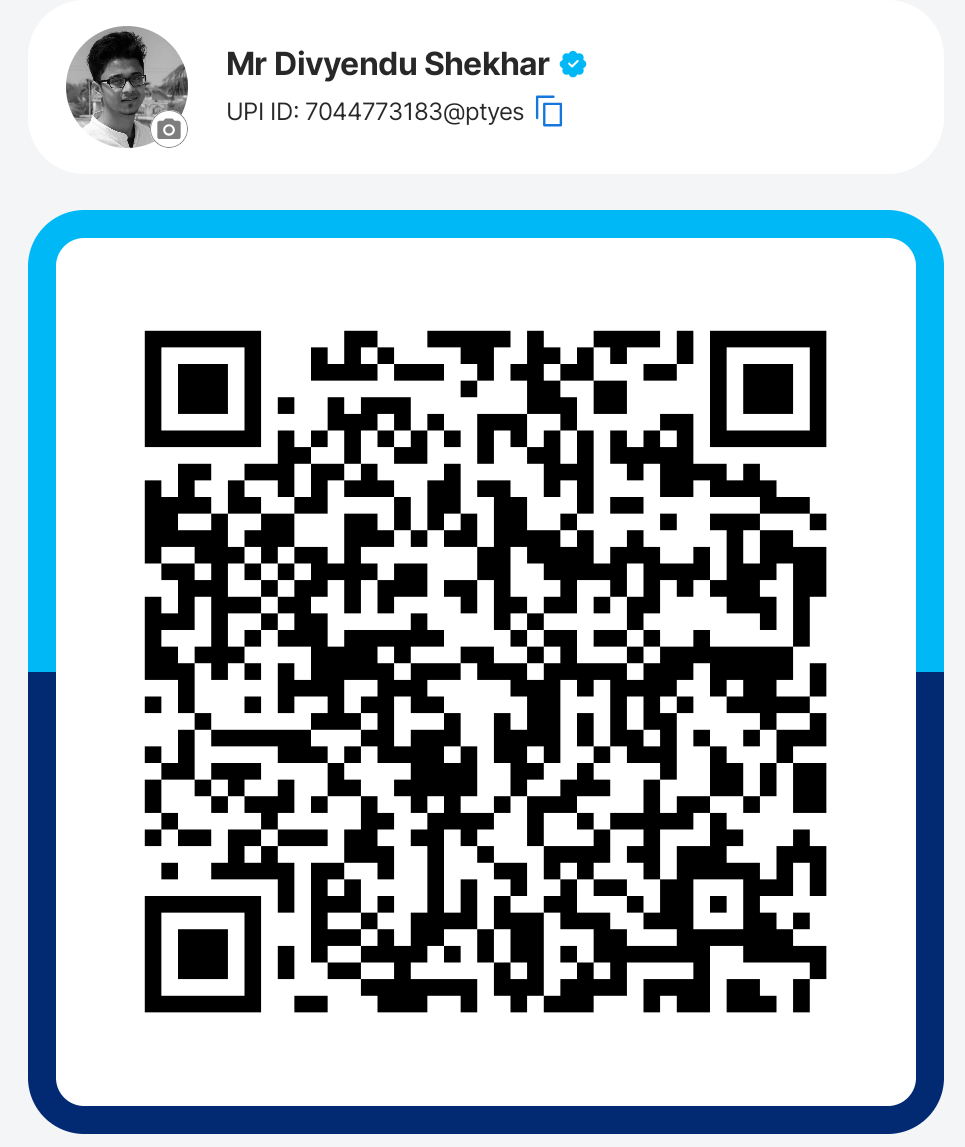
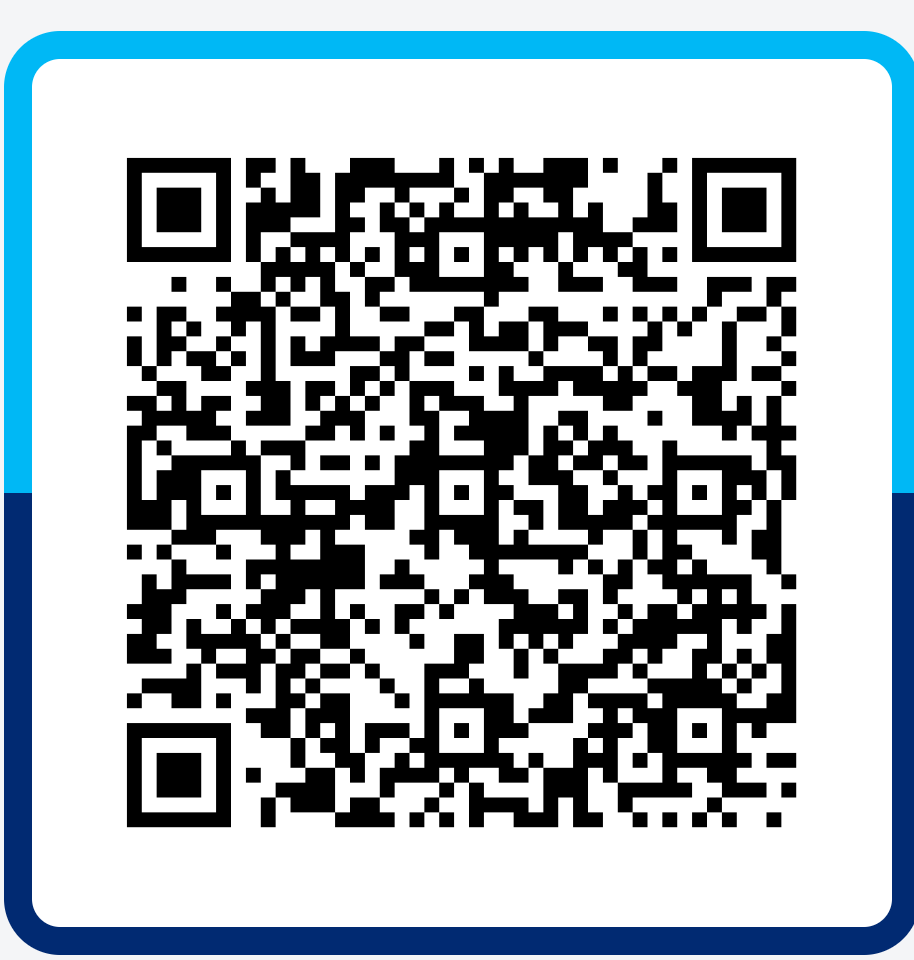
Day12: Minor UI fixes, reduced blur in bg

diff --git a/feed.html b/feed.html
@@ -336,11 +336,14 @@
       -webkit-backdrop-filter: blur(10px);
       font-family: 'Space Mono', 'DM Mono', monospace;
       white-space: nowrap;
-      overflow: visible;
+      overflow-x: auto;
+      overflow-y: hidden;
       margin-bottom: 20px;
-      min-width: 0;
       width: 100%;
+      scrollbar-width: none; /* Firefox */
+      -ms-overflow-style: none; /* IE */
     }
+    .market-ticker::-webkit-scrollbar { display: none; } /* Chrome/Safari */
     body.light .market-ticker {
       background: rgba(255,255,255,0.72);
       border-color: rgba(0,0,0,0.1);
@@ -380,27 +383,29 @@
 
     .market-name {
       font-size: 9px;
-      letter-spacing: 0.13em;
+      letter-spacing: 0.1em;
       color: var(--text-dim);
       text-transform: uppercase;
+      flex-shrink: 0;
     }
 
     .market-val {
-      font-size: 14px;
+      font-size: 13px;
       font-weight: 700;
       color: var(--text);
-      letter-spacing: 0.02em;
-      min-width: 0;
+      letter-spacing: 0.01em;
+      flex-shrink: 0;
     }
 
     .market-chg {
-      font-size: 11px;
+      font-size: 10px;
       font-family: 'Space Mono', 'DM Mono', monospace;
       display: flex;
       align-items: center;
-      gap: 3px;
-      padding: 2px 6px;
+      gap: 2px;
+      padding: 2px 5px;
       border-radius: 3px;
+      flex-shrink: 0;
     }
     .market-chg.up   { color: #22c55e; background: rgba(34,197,94,0.1); }
     .market-chg.down { color: #f87171; background: rgba(248,113,113,0.1); }
@@ -410,11 +415,13 @@
       margin-left: auto;
       font-size: 9px;
       color: var(--text-dim);
-      letter-spacing: 0.06em;
+      letter-spacing: 0.04em;
       flex-shrink: 0;
       padding-left: 14px;
+      margin-left: 14px;
       border-left: 1px solid rgba(255,255,255,0.07);
       font-style: normal;
+      white-space: nowrap;
     }
     body.light .market-mood { border-left-color: rgba(0,0,0,0.1); }
 
@@ -978,7 +985,7 @@
       <p class="qr-modal-title">☕ Buy a chai</p>
       <p class="qr-modal-desc">Scan with GPay, PhonePe or any UPI app</p>
       <img src="/upi-qr.png" alt="UPI QR Code" onerror="this.style.opacity='0.2'"/>
-      <p class="qr-modal-upi">UPI: 7044773183@ptyes</p>
+      <p class="qr-modal-upi">UPI: divyendu.shekhar@ptyes</p>
     </div>
   </div>
 
@@ -1280,7 +1287,7 @@
             <div class="support-text">
               <p>☕ Like Teesra?</p>
               <p class="support-desc">Built by one person, completely free. If it saves you time every morning, consider buying a chai.</p>
-              <p class="support-upi-id">UPI: 7044773183@ptyes</p>
+              <p class="support-upi-id">UPI: divyendu.shekhar@ptyes</p>
             </div>
             <div class="qr-wrap" onclick="openModal()" title="Click to enlarge">
               <img src="/upi-qr.png" alt="UPI QR Code" class="upi-qr"

diff --git a/index.html b/index.html
@@ -830,7 +830,7 @@
       <p style="font-family:'Playfair Display',serif;font-size:20px;font-weight:700;color:#e8e4d4;margin-bottom:6px;">☕ Buy a chai</p>
       <p style="font-size:12px;color:#7a7660;margin-bottom:20px;">Scan with GPay, PhonePe or any UPI app</p>
       <img src="/upi-qr.png" alt="UPI QR" style="width:220px;height:220px;padding:10px;background:white;border:1px solid #ddd;display:block;margin:0 auto 12px;" onerror="this.style.opacity='0.3'"/>
-      <p style="font-family:'DM Mono',monospace;font-size:12px;color:#e8c84a;letter-spacing:1px;">UPI: YOUR_UPI_ID@upi</p>
+      <p style="font-family:'DM Mono',monospace;font-size:12px;color:#e8c84a;letter-spacing:1px;">UPI: divyendu.shekhar@ptyes</p>
     </div>
   </div>
 
@@ -859,7 +859,7 @@
   <section class="hero">
     <div class="status-badge">
       <div class="status-dot"></div>
-      Building in public — Day 5 of 30
+      Building in public — Day 12 of 30
     </div>
     <p class="hero-eyebrow">India's third perspective on news</p>
     <h1 class="hero-title">One story.<br><em>Three truths.</em></h1>
